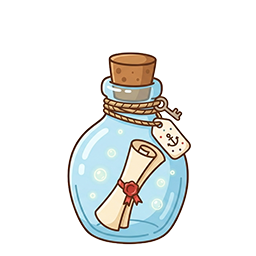
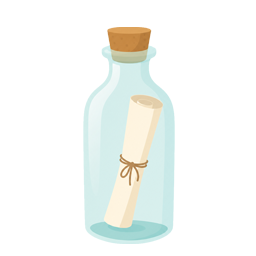
Update bottle artwork and scale map/cast display to 0.8x.
Commit new Bottles_A01.png; map markers 62px, cast splash and hit radius scaled down proportionally.

Changed region(s): [[0.25, 0.0938, 0.75, 0.9688]]

diff --git a/components/bottles/BottleMarker.tsx b/components/bottles/BottleMarker.tsx
@@ -58,7 +58,7 @@ export default function BottleMarker({ bottle, onClick, isSelected = false, zInd
           initial={false}
           animate={
             isSelected
-              ? { y: -18, scale: 1.1 }
+              ? { y: -14, scale: 1.1 }
               : { y: [0, -6, 0], scale: 1 }
           }
           transition={
@@ -72,7 +72,7 @@ export default function BottleMarker({ bottle, onClick, isSelected = false, zInd
         </motion.div>
 
         <motion.div
-          className="mt-0.5 h-[15px] w-[60px] rounded-[50%] bg-black/30 blur-[1px]"
+          className="mt-0.5 h-3 w-12 rounded-[50%] bg-black/30 blur-[1px]"
           animate={
             isSelected
               ? { scale: 0.75, opacity: 0.2 }

diff --git a/components/bottles/CastSplash.tsx b/components/bottles/CastSplash.tsx
@@ -124,7 +124,7 @@ export default function CastSplash({ show, capCost, onDone }: Props) {
               >
                 <BottleImage
                   size="lg"
-                  className="h-[min(768px,72vw)] w-[min(768px,72vw)] max-h-[75vh] drop-shadow-2xl"
+                  className="h-[min(614px,57.6vw)] w-[min(614px,57.6vw)] max-h-[60vh] drop-shadow-2xl"
                 />
               </motion.div>
               <StardustBurst show={burst} />

diff --git a/components/bottles/BottleImage.tsx b/components/bottles/BottleImage.tsx
@@ -4,7 +4,7 @@ const SIZES = {
   sm: "h-7 w-7",
   md: "h-11 w-11",
   lg: "h-[52px] w-[52px]",
-  map: "h-[78px] w-[78px]",
+  map: "h-[62px] w-[62px]",
   xl: "h-14 w-14",
 } as const;
 
@@ -12,7 +12,7 @@ const PIXEL_SIZES = {
   sm: 28,
   md: 44,
   lg: 52,
-  map: 78,
+  map: 62,
   xl: 56,
 } as const;
 

diff --git a/lib/mapHitTest.ts b/lib/mapHitTest.ts
@@ -1,7 +1,7 @@
 import type { Map } from "mapbox-gl";
 import type { MapStackItem } from "@/lib/types";
 
-export const MAP_HIT_RADIUS_PX = 70;
+export const MAP_HIT_RADIUS_PX = 56;
 
 function itemCoords(item: MapStackItem): [number, number] {
   if (item.kind === "bottle") {
